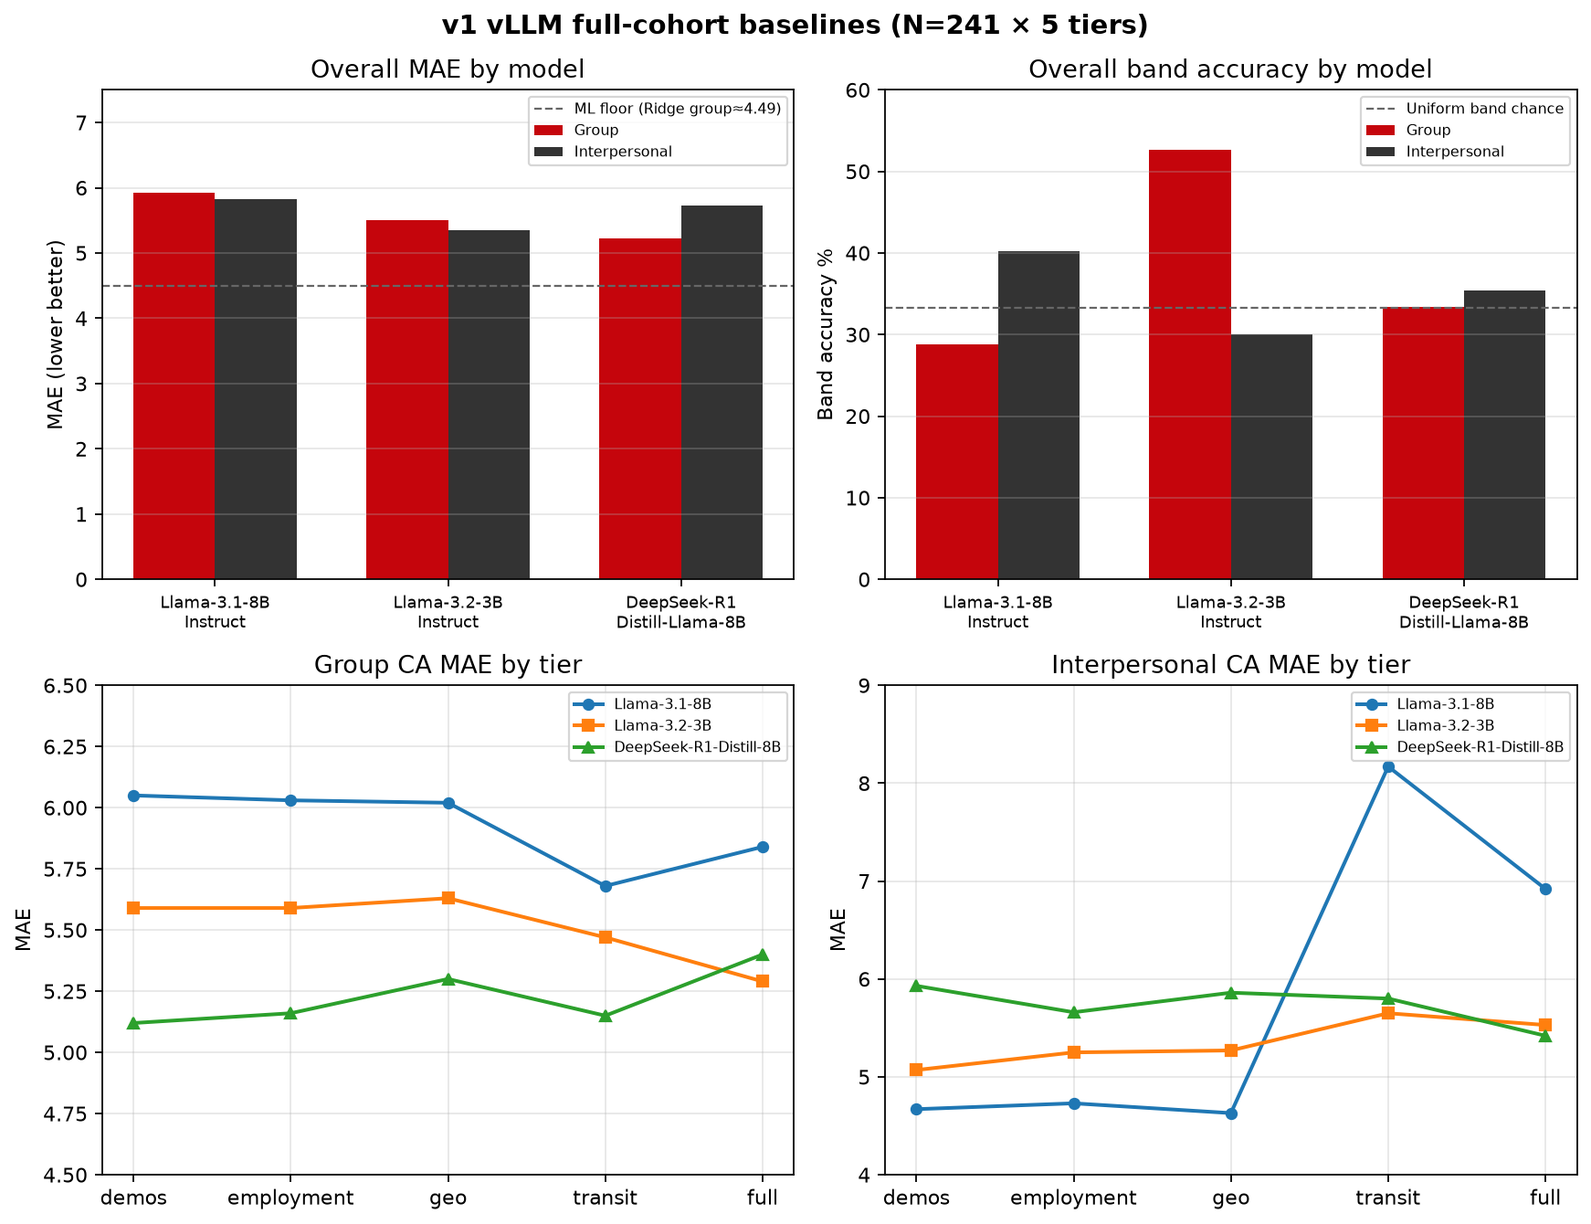
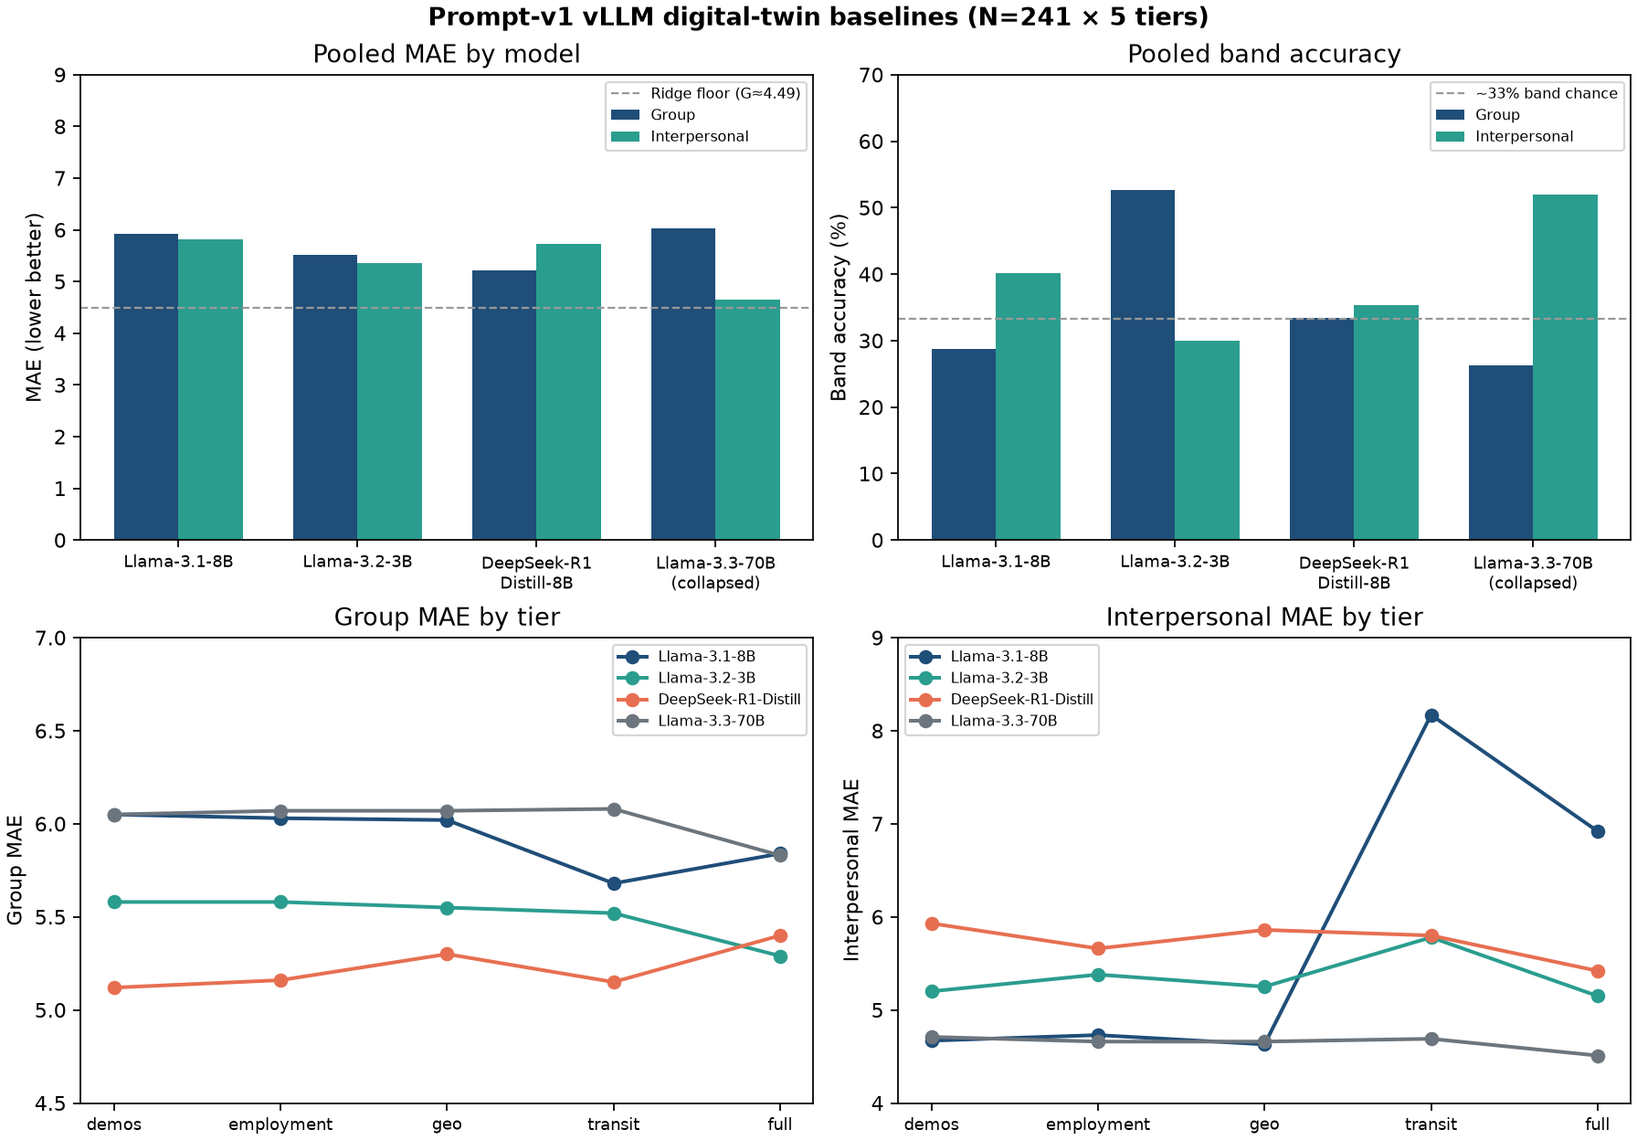
Update project files to include Llama-3.3-70B model documentation
- Added new documents for Llama-3.3-70B Instruct in `_quarto.yml`, `memos/README.md`, and `docs/llm_vllm_memo_agenda.md`.
- Updated `research_memo_agenda.md` to reflect the inclusion of Llama-3.3-70B and its performance summary.
- Revised cross-model comparison documentation to incorporate findings related to the new model.

diff --git a/memos/vllm_v1_cross_model_comparison.md b/memos/vllm_v1_cross_model_comparison.md
@@ -7,57 +7,59 @@ date: 2026-07-26
 
 **Research question:** Across full-cohort vLLM runs on the **same prompt-v1** five-tier ladder (`demos` → `employment` → `geo` → `transit` → `full`), which open-weight instruct / distill models best recover ground-truth PRCA group and interpersonal scores — and do employment, transit, or cumulative context reduce absolute error (RQ1–RQ3)?
 
-**Formal method pages:** [`docs/llm_baseline_llama31_v1.md`](../docs/llm_baseline_llama31_v1.md) · [`docs/llm_baseline_llama32_instruct_v1.md`](../docs/llm_baseline_llama32_instruct_v1.md) · [`docs/llm_baseline_deepseek_r1_distill_v1.md`](../docs/llm_baseline_deepseek_r1_distill_v1.md) · [`docs/persona_prompt_versions.md`](../docs/persona_prompt_versions.md)
+**Formal method pages:** [`docs/llm_baseline_llama31_v1.md`](../docs/llm_baseline_llama31_v1.md) · [`docs/llm_baseline_llama32_instruct_v1.md`](../docs/llm_baseline_llama32_instruct_v1.md) · [`docs/llm_baseline_deepseek_r1_distill_v1.md`](../docs/llm_baseline_deepseek_r1_distill_v1.md) · [`docs/llm_baseline_llama33_70b_v1.md`](../docs/llm_baseline_llama33_70b_v1.md) · [`docs/persona_prompt_versions.md`](../docs/persona_prompt_versions.md)
 
-**Sibling memos (per model):** [`vllm_v1_llama31_8b.md`](vllm_v1_llama31_8b.md) · [`vllm_v1_llama32_3b.md`](vllm_v1_llama32_3b.md) · [`vllm_v1_deepseek_r1_distill.md`](vllm_v1_deepseek_r1_distill.md)
+**Sibling memos (per model):** [`vllm_v1_llama31_8b.md`](vllm_v1_llama31_8b.md) · [`vllm_v1_llama32_3b.md`](vllm_v1_llama32_3b.md) · [`vllm_v1_deepseek_r1_distill.md`](vllm_v1_deepseek_r1_distill.md) · [`vllm_v1_llama33_70b.md`](vllm_v1_llama33_70b.md)
 
 ---
 
 ## Answer, Response, + Summary of Results
 
-Using the Prolific↔Qualtrics matched analytic cohort (**n = 241**; inner join; complete scorable PRCA), we evaluated three GPU vLLM exports on **identical prompt-v1** Terrarium narratives (241 × 5 tiers = **1,205** prompts each):
+Using the Prolific↔Qualtrics matched analytic cohort (**n = 241**; inner join; complete scorable PRCA), we evaluated four GPU vLLM exports on **identical prompt-v1** Terrarium narratives (241 × 5 tiers = **1,205** prompts each):
 
-| Model | Tag / export | Parse | Hardware notes |
+| Model | Tag / export | Parse | Hardware / notes |
 |---|---|---:|---|
 | `meta-llama/Llama-3.1-8B-Instruct` | `20260726_0221` | 100% | fp8 Marlin WO · A5000 · 12.3 samp/s |
 | `meta-llama/Llama-3.2-3B-Instruct` | `20260726_0252` | 100% | ~21.0 samp/s |
 | `deepseek-ai/DeepSeek-R1-Distill-Llama-8B` | `20260726_0324` | **99.8%** (1202/1205) | fp8 Marlin WO · 1.34 samp/s · `</think>` strip |
+| `meta-llama/Llama-3.3-70B-Instruct` | `llama_70b.csv` | 100% | **Mode collapse** — only **8** unique generations |
 
 Metrics follow the project evaluator (`ca_personas.evaluate`): MAE / exact match / band accuracy on group & interpersonal PRCA (6–30; bands low≤13 / moderate 14–19 / high≥20). Classical ML floor for comparison: best transit **group MAE ≈ 4.49** (Ridge; [`docs/ml_baselines.md`](../docs/ml_baselines.md)).
 
-**Short answer:** None of the three models is a high-fidelity digital twin (exact match single-digit). On pooled MAE, **DeepSeek-R1-Distill-Llama-8B** wins group CA (**5.22**), **Llama-3.2-3B-Instruct** wins interpersonal MAE (**5.35**) and group band accuracy (**52.7%**), and **Llama-3.1-8B-Instruct** uniquely recovers interpersonal bands above chance at demos/geo (~52%) but **collapses when transit is added** (IP MAE 4.67 → **8.17**). Employment (RQ1) is negligible for all three; transit/full (RQ2–RQ3) help or hurt depending on model × subscale.
+**Short answer:** None of the models is a high-fidelity digital twin (exact match single-digit). Among **non-collapsed** runs, **DeepSeek-R1-Distill-Llama-8B** wins group CA (**5.22**), **Llama-3.2-3B-Instruct** wins interpersonal MAE (**5.35**) and group band accuracy (**52.7%**), and **Llama-3.1-8B-Instruct** uniquely recovers interpersonal bands above chance at demos/geo (~52%) but **collapses when transit is added** (IP MAE 4.67 → **8.17**). **Llama-3.3-70B** is a separate failure mode: ≈93% constant prior `(18, 12)` — do not rank it as a competitive twin despite a low IP MAE (**4.65**) that is an artifact of that prior. Employment (RQ1) is negligible for all; transit/full (RQ2–RQ3) help or hurt depending on model × subscale.
 
 ![Cross-model MAE, band accuracy, and tier trajectories](figures/vllm_v1_cross_model_memo.png)
 
 ### Head-to-head (all tiers pooled)
 
-| Model | MAE group ↓ | MAE IP ↓ | Exact G | Exact IP | Band G | Band IP |
-|---|---:|---:|---:|---:|---:|---:|
-| Llama-3.1-8B-Instruct | 5.92 | 5.82 | 6.1% | 9.0% | 28.8% | **40.2%** |
-| Llama-3.2-3B-Instruct | 5.51 | **5.35** | **9.1%** | 7.7% | **52.7%** | 30.0% |
-| DeepSeek-R1-Distill-Llama-8B | **5.22** | 5.73 | 6.2% | 5.9% | 33.4% | 35.4% |
+| Model | MAE group ↓ | MAE IP ↓ | Exact G | Exact IP | Band G | Band IP | Notes |
+|---|---:|---:|---:|---:|---:|---:|---|
+| Llama-3.1-8B-Instruct | 5.92 | 5.82 | 6.1% | 9.0% | 28.8% | **40.2%** | Transit IP disaster |
+| Llama-3.2-3B-Instruct | 5.51 | **5.35** | **9.1%** | 7.7% | **52.7%** | 30.0% | Best group bands |
+| DeepSeek-R1-Distill-Llama-8B | **5.22** | 5.73 | 6.2% | 5.9% | 33.4% | 35.4% | Best group MAE; tier-stable |
+| Llama-3.3-70B-Instruct | 6.02 | 4.65† | 6.4% | 12.4% | 26.3% | 52.0%† | †Constant prior; not person-tracking |
 
-All remain **above** the tabular Ridge floor (group MAE 4.49). Band accuracy vs ~33% chance: Llama-3.2 dominates **group** bands; Llama-3.1 leads **interpersonal** bands (driven by demos/employment/geo, not transit).
+Non-collapsed models remain **above** the tabular Ridge floor (group MAE 4.49). Band accuracy vs ~33% chance: Llama-3.2 dominates **group** bands; Llama-3.1 leads **interpersonal** bands among models that still vary outputs (driven by demos/employment/geo, not transit).
 
 ### RQ1–RQ3 pattern by model
 
-| RQ | Llama-3.1-8B | Llama-3.2-3B | DeepSeek-R1-Distill-8B |
-|---|---|---|---|
-| **RQ1 employment** | Negligible (Δ MAE G −0.02; IP +0.07) | Negligible (G 0.00; IP +0.18) | Negligible / slight IP help (G +0.03; IP −0.27) |
-| **RQ2 transit** | Group slight help; **IP disaster** (+3.51 MAE; band 51.9%→15.4%) | Small group help; IP worse (+0.58 MAE) | Flat group; IP nearly flat (−0.13 MAE); IP band +2.6 pp |
-| **RQ3 full** | Group band up; IP still worse than demos | Best group MAE (5.29); IP mixed | Best IP MAE in set at full (**5.42**); group MAE not best |
+| RQ | Llama-3.1-8B | Llama-3.2-3B | DeepSeek-R1-Distill-8B | Llama-3.3-70B |
+|---|---|---|---|---|
+| **RQ1 employment** | Negligible | Negligible | Negligible / slight IP help | Null (collapsed) |
+| **RQ2 transit** | Group slight help; **IP disaster** | Small group help; IP worse | Flat; no IP collapse | Null (flat collapse) |
+| **RQ3 full** | Group band up; IP worse than demos | Best group MAE (5.29); IP mixed | Best IP MAE at full (**5.42**) | Negligible dips only |
 
-**Interpretation.** Prompt-v1 transit text is a **model-dependent hazard**, not a universal aid. Llama-3.1 over-predicts interpersonal CA once mobility cues appear (signed IP error ≈ +6.5 at transit). Llama-3.2 and DeepSeek are more robust; DeepSeek is the most **tier-stable**, while Llama-3.2 is the best **coarse group-band** classifier among the three.
+**Interpretation.** Prompt-v1 transit text is a **model-dependent hazard**, not a universal aid. Llama-3.1 over-predicts interpersonal CA once mobility cues appear. Llama-3.2 and DeepSeek are more robust; DeepSeek is the most **tier-stable**, while Llama-3.2 is the best **coarse group-band** classifier among the three. Llama-3.3-70B shows that **scale alone does not fix** digital-twin recovery — without predictive variance, tier RQs are uninterpretable.
 
-**Conclusion.** For prompt-v1 digital-twin evaluation on this cohort: prefer **DeepSeek-R1-Distill-Llama-8B** when minimizing group MAE, **Llama-3.2-3B-Instruct** when maximizing group band recovery / IP MAE, and treat **Llama-3.1-8B-Instruct** as the cautionary baseline that motivated prompt packaging v2/v3 (transit-induced interpersonal failure). No model yet closes the gap to classical ML (~4.5 MAE). Re-runs on v2/v3 prompts remain necessary before claiming packaging fixes stereotyping.
+**Conclusion.** For prompt-v1 digital-twin evaluation on this cohort: prefer **DeepSeek-R1-Distill-Llama-8B** when minimizing group MAE, **Llama-3.2-3B-Instruct** when maximizing group band recovery / IP MAE, treat **Llama-3.1-8B-Instruct** as the cautionary transit-IP baseline that motivated packaging v2/v3, and treat **Llama-3.3-70B** as a **mode-collapse** cautionary case (not a scale win). No model yet closes the gap to classical ML (~4.5 MAE). Re-runs on v2/v3 prompts (and non-collapsed 70B decoding) remain necessary before claiming packaging or scale fixes stereotyping.
 
-*Sources:* `data/vllm/llama3_1.md` · `data/vllm/llama32_instruct.md` · `data/vllm/deepseek-distilled/deepseek_v1.md` · docs LLM baselines · [github.com/Exios66/psych755-jjb](https://github.com/Exios66/psych755-jjb)
+*Sources:* `data/vllm/llama3_1.md` · `data/vllm/llama32_instruct.md` · `data/vllm/deepseek-distilled/deepseek_v1.md` · `data/vllm/llama-3-70b/llama_70b.md` · docs LLM baselines · [github.com/Exios66/psych755-jjb](https://github.com/Exios66/psych755-jjb)
 
 ---
 
 ## What questions or uncertainties remain?
 
-Do v2 (signal-first) and v3 (rideshare / public-transit / voice ablations) remove Llama-3.1’s transit IP collapse without harming DeepSeek / 3B gains? Are signed-error / stereotyping slices (Sex, Age, Student, Employment) aligned across models? Would temperature / decoding changes alter band recovery more than architecture?
+Do v2 (signal-first) and v3 (rideshare / public-transit / voice ablations) remove Llama-3.1’s transit IP collapse without harming DeepSeek / 3B gains? Can temperature / constrained decoding restore 70B variance? Are signed-error / stereotyping slices (Sex, Age, Student, Employment) aligned across non-collapsed models?
 
 ## What other analyses pair with this memo?
 

diff --git a/docs/llm_baseline_llama33_70b_v1.md b/docs/llm_baseline_llama33_70b_v1.md
@@ -1,0 +1,108 @@
+---
+title: "Llama-3.3-70B-Instruct full-cohort baseline (prompt v1)"
+subtitle: "vLLM digital-twin results — mode-collapse cautionary case"
+---
+
+**Model:** `meta-llama/Llama-3.3-70B-Instruct` · **Prompt generation:** version 1 core ladder  
+**Companion:** [Cross-model memo](../memos/vllm_v1_cross_model_comparison.md) · [70B research memo](../memos/vllm_v1_llama33_70b.md) · [Llama-3.1](llm_baseline_llama31_v1.md) · [Llama-3.2-3B](llm_baseline_llama32_instruct_v1.md) · [DeepSeek](llm_baseline_deepseek_r1_distill_v1.md) · [Prompt versions](persona_prompt_versions.md)
+
+> **Read first:** This run is a **mode-collapse** failure, not a scale win. ≈93% of generations are the constant pair `(group=18, interpersonal=12)`. Treat MAE / band tables as diagnostics of that prior, not as evidence that 70B recovers PRCA.
+
+---
+
+**Model tag:** `llama33_70b_instruct`  
+**Sample:** N = 241 × 5 tiers = **1205** prompts  
+**Parse success:** **1205/1205 (100%)**  
+**Unique generated JSON texts:** **8**  
+**Result CSV:** `data/vllm/llama-3-70b/llama_70b.csv`
+
+---
+
+## 1. Overall metrics (pooled)
+
+| Metric | Value |
+|---|---:|
+| MAE group | **6.02** |
+| MAE interpersonal | **4.65** |
+| Exact acc group | 6.4% |
+| Exact acc interpersonal | 12.4% |
+| Band acc group | 26.3% |
+| Band acc interpersonal | 52.0% |
+| Mean signed error group | **+3.51** |
+| Mean signed error IP | **−2.10** |
+
+## 2. Mode collapse
+
+| pred_group | n | share |
+|---:|---:|---:|
+| 18 | 1118 | 92.8% |
+| 22 | 51 | 4.2% |
+| 16 | 25 | 2.1% |
+| other | 11 | 0.9% |
+
+| pred_IP | n | share |
+|---:|---:|---:|
+| 12 | 1123 | 93.2% |
+| 18 | 51 | 4.2% |
+| 10 | 27 | 2.2% |
+| other | 4 | 0.3% |
+
+## 3. Comparison vs smaller prompt-v1 models
+
+| Metric (all tiers) | Llama-3.3-70B | DeepSeek-R1-Distill-8B | Llama-3.2-3B | Llama-3.1-8B |
+|---|---:|---:|---:|---:|
+| MAE group | 6.02 | **5.22** | 5.51 | 5.92 |
+| MAE interpersonal | **4.65** | 5.73 | 5.35 | 5.82 |
+| Band group | 26.3% | 33.4% | **52.7%** | 28.8% |
+| Band interpersonal | **52.0%** | 35.4% | 30.0% | 40.2% |
+
+IP MAE / band look competitive only because the constant **low-IP** prior aligns with cohort base rates. Group recovery is the **worst** of the four models.
+
+## 4. RQ deltas (vs demos)
+
+- **RQ1 employment:** group MAE 6.05 → 6.07; IP 4.71 → 4.66  
+- **RQ2 transit:** group 6.05 → 6.08; IP 4.71 → 4.69 (flat; no 8B-style IP collapse)  
+- **RQ3 full:** group MAE **5.83**; IP **4.51** — tiny movement, still collapsed
+
+## 5. Metrics by tier
+
+| tier | n_GT | mae_group | mae_IP | band_group | band_IP | mean_err_group | mean_err_IP |
+|---|---:|---:|---:|---:|---:|---:|---:|
+| all | 1205 | 6.02 | 4.65 | 26.3% | 52.0% | +3.51 | −2.10 |
+| demos | 241 | 6.05 | 4.71 | 26.6% | 51.0% | +3.58 | −2.01 |
+| employment | 241 | 6.07 | 4.66 | 25.7% | 51.9% | +3.53 | −2.09 |
+| geo | 241 | 6.07 | 4.66 | 26.1% | 51.9% | +3.53 | −2.09 |
+| transit | 241 | 6.08 | 4.69 | 26.1% | 51.9% | +3.58 | −2.01 |
+| full | 241 | 5.83 | 4.51 | 27.0% | 53.5% | +3.32 | −2.28 |
+
+## 6. Band confusion (pooled)
+
+### Group
+
+| gt_band | high | low | moderate |
+|:--------|----:|----:|---------:|
+| high | 23 | 0 | 227 |
+| low | 24 | 1 | 625 |
+| moderate | 11 | 1 | 293 |
+
+### Interpersonal
+
+| gt_band | high | low | moderate |
+|:--------|----:|----:|---------:|
+| high | 2 | 204 | 14 |
+| low | 0 | 614 | 26 |
+| moderate | 0 | 334 | 11 |
+
+## 7. Success checklist
+
+| Criterion | Result |
+|---|---|
+| Schema-valid CA JSON | Yes (100%) |
+| Exact digital-twin recovery | No |
+| Coarse band recovery | Spurious IP; group below chance |
+| Person-specific variance | **No** (8 unique outputs) |
+| RQ1–RQ3 tier gains | Null under collapse |
+
+---
+
+*Source report: `data/vllm/llama-3-70b/llama_70b.md` · evaluator artifacts in the same directory.*

diff --git a/memos/vllm_v1_llama33_70b.md b/memos/vllm_v1_llama33_70b.md
@@ -1,0 +1,58 @@
+---
+title: "Memo: Does Llama-3.3-70B recover PRCA on prompt v1?"
+subtitle: "Research memorandum — full-cohort vLLM baseline (mode-collapse case)"
+author: Jack J. Burleson
+date: 2026-07-26
+---
+
+**Research question:** Does `meta-llama/Llama-3.3-70B-Instruct`, when personified via prompt-v1 cumulative Terrarium narratives, recover participants’ group and interpersonal PRCA scores — and do employment (RQ1), transit (RQ2), or full cumulative context (RQ3) reduce absolute error?
+
+**Formal write-up:** [`docs/llm_baseline_llama33_70b_v1.md`](../docs/llm_baseline_llama33_70b_v1.md)  
+**Cross-model memo:** [`vllm_v1_cross_model_comparison.md`](vllm_v1_cross_model_comparison.md)
+
+---
+
+## Answer, Response, + Summary of Results
+
+Full-cohort vLLM export on the matched Prolific↔Qualtrics sample (**n = 241**; **1,205** prompts; parse **100%**). Result file: `data/vllm/llama-3-70b/llama_70b.csv`.
+
+**Short answer:** Engineering success (valid CA JSON) but a **failed digital twin via mode collapse**. Across 1,205 prompts there are only **8** unique `generated_text` strings; **≈93%** of rows emit the constant prior **group = 18 / interpersonal = 12** (moderate / low bands). Pooled MAE is **6.02** (group) / **4.65** (IP). Group bands (**26.3%**) are below chance; IP bands (**52.0%**) look strong only because the constant low-IP prior matches cohort base rates — not because the model tracks individuals. Tier ladders are flat: RQ1–RQ3 are null.
+
+### Collapse diagnostics
+
+| Signal | Value |
+|---|---:|
+| Unique generated texts | **8** |
+| Share pred_group = 18 | **92.8%** |
+| Share pred_IP = 12 | **93.2%** |
+| Mean signed error (G / IP) | **+3.51** / **−2.10** |
+
+### Metrics by tier
+
+| Tier | MAE G | MAE IP | Band G | Band IP | Mean err G | Mean err IP |
+|---|---:|---:|---:|---:|---:|---:|
+| demos | 6.05 | 4.71 | 26.6% | 51.0% | +3.58 | −2.01 |
+| employment | 6.07 | 4.66 | 25.7% | 51.9% | +3.53 | −2.09 |
+| geo | 6.07 | 4.66 | 26.1% | 51.9% | +3.53 | −2.09 |
+| transit | 6.08 | 4.69 | 26.1% | 51.9% | +3.58 | −2.01 |
+| full | **5.83** | **4.51** | 27.0% | **53.5%** | +3.32 | −2.28 |
+
+### RQ verdicts
+
+- **RQ1 (employment):** No — Δ MAE ≈ 0.
+- **RQ2 (transit):** No — flat (unlike Llama-3.1’s IP collapse; here *nothing* changes).
+- **RQ3 (full):** Negligible MAE dips still inside collapse.
+
+**Conclusion.** Scaling to Llama-3.3-70B on prompt v1 does **not** improve digital-twin recovery on this cohort. The model behaves as a **near-constant stereotype prior**, not a person-conditioned estimator. Prefer smaller models that still vary predictions (DeepSeek group MAE **5.22**; Llama-3.2 group bands **52.7%**) for v1 comparisons, and treat 70B as a cautionary case for decoding / prompting / constrained-output follow-ups before claiming scale helps.
+
+*Sources:* `data/vllm/llama-3-70b/llama_70b.md` · `docs/llm_baseline_llama33_70b_v1.md` · evaluator `ca_personas.evaluate` · [github.com/Exios66/psych755-jjb](https://github.com/Exios66/psych755-jjb)
+
+---
+
+## What questions or uncertainties remain?
+
+Was temperature / sampling configured too greedily (or with too-strong JSON schema forcing)? Does constrained decoding or higher temperature restore score variance without tanking parse rate? Does the same collapse appear under prompt packaging v2/v3?
+
+## What other analyses pair with this memo?
+
+Cross-model ranking: [`vllm_v1_cross_model_comparison.md`](vllm_v1_cross_model_comparison.md). Non-collapsed siblings: [`vllm_v1_llama31_8b.md`](vllm_v1_llama31_8b.md), [`vllm_v1_llama32_3b.md`](vllm_v1_llama32_3b.md), [`vllm_v1_deepseek_r1_distill.md`](vllm_v1_deepseek_r1_distill.md).

diff --git a/docs/llm_vllm_memo_agenda.md b/docs/llm_vllm_memo_agenda.md
@@ -17,10 +17,11 @@ Document the first wave of **live GPU vLLM** evaluations on the matched analytic
 
 | Memo | Model | Headline |
 |---|---|---|
-| [`memos/vllm_v1_cross_model_comparison.md`](../memos/vllm_v1_cross_model_comparison.md) | All three | DeepSeek best group MAE (5.22); 3B best group bands (52.7%); 8B IP collapses at transit |
+| [`memos/vllm_v1_cross_model_comparison.md`](../memos/vllm_v1_cross_model_comparison.md) | All four | DeepSeek best group MAE (5.22); 3B best group bands (52.7%); 8B IP collapses at transit; 70B mode-collapse |
 | [`memos/vllm_v1_llama31_8b.md`](../memos/vllm_v1_llama31_8b.md) | Llama-3.1-8B-Instruct | IP MAE 4.67 → 8.17 at transit; packaging v2/v3 motivation |
 | [`memos/vllm_v1_llama32_3b.md`](../memos/vllm_v1_llama32_3b.md) | Llama-3.2-3B-Instruct | Lower MAE than 8B; robust-ish transit; IP bands ~chance |
 | [`memos/vllm_v1_deepseek_r1_distill.md`](../memos/vllm_v1_deepseek_r1_distill.md) | DeepSeek-R1-Distill-Llama-8B | Best group MAE; tier-stable; 99.8% parse |
+| [`memos/vllm_v1_llama33_70b.md`](../memos/vllm_v1_llama33_70b.md) | Llama-3.3-70B-Instruct | Mode collapse (~93% constant 18/12); not a scale win |
 
 ## Method pages (tables)
 

diff --git a/docs/research_memo_agenda.md b/docs/research_memo_agenda.md
@@ -50,10 +50,11 @@ Live GPU baselines are documented separately in [`docs/llm_vllm_memo_agenda.md`]
 
 | Memo | Headline |
 |---|---|
-| [`memos/vllm_v1_cross_model_comparison.md`](../memos/vllm_v1_cross_model_comparison.md) | DeepSeek best group MAE; 3B best group bands; 8B IP collapses at transit |
+| [`memos/vllm_v1_cross_model_comparison.md`](../memos/vllm_v1_cross_model_comparison.md) | DeepSeek best group MAE; 3B best group bands; 8B IP collapses at transit; 70B collapsed |
 | [`memos/vllm_v1_llama31_8b.md`](../memos/vllm_v1_llama31_8b.md) | Llama-3.1-8B cautionary baseline |
 | [`memos/vllm_v1_llama32_3b.md`](../memos/vllm_v1_llama32_3b.md) | Llama-3.2-3B Instruct lower MAE than 8B |
 | [`memos/vllm_v1_deepseek_r1_distill.md`](../memos/vllm_v1_deepseek_r1_distill.md) | DeepSeek-R1-Distill tier-stable; best group MAE |
+| [`memos/vllm_v1_llama33_70b.md`](../memos/vllm_v1_llama33_70b.md) | Llama-3.3-70B mode-collapse cautionary case |
 
 ## Intentionally deferred (need further live LLM or new data)
 

diff --git a/memos/README.md b/memos/README.md
@@ -26,6 +26,7 @@ Individual research memoranda for PSYCH 755, following the course template
 | [`vllm_v1_llama31_8b.md`](vllm_v1_llama31_8b.md) | Jack J. Burleson | Does Llama-3.1-8B recover PRCA on prompt v1? |
 | [`vllm_v1_llama32_3b.md`](vllm_v1_llama32_3b.md) | Jack J. Burleson | Does Llama-3.2-3B-Instruct recover PRCA on prompt v1? |
 | [`vllm_v1_deepseek_r1_distill.md`](vllm_v1_deepseek_r1_distill.md) | Jack J. Burleson | Does DeepSeek-R1-Distill-Llama-8B recover PRCA on prompt v1? |
+| [`vllm_v1_llama33_70b.md`](vllm_v1_llama33_70b.md) | Jack J. Burleson | Does Llama-3.3-70B recover PRCA on prompt v1? (mode collapse) |
 
 Agenda / hub write-up: [`docs/research_memo_agenda.md`](../docs/research_memo_agenda.md) · [`docs/secondary_rq_followup_experiments.md`](../docs/secondary_rq_followup_experiments.md) · LLM wave: [`docs/llm_vllm_memo_agenda.md`](../docs/llm_vllm_memo_agenda.md)
 

diff --git a/docs/llm_baseline_deepseek_r1_distill_v1.md b/docs/llm_baseline_deepseek_r1_distill_v1.md
@@ -4,7 +4,7 @@ subtitle: "vLLM digital-twin results on the original 5-tier Terrarium prompts"
 ---
 
 **Model:** `deepseek-ai/DeepSeek-R1-Distill-Llama-8B` · **Prompt generation:** version 1 core ladder  
-**Companion:** [Cross-model memo](../memos/vllm_v1_cross_model_comparison.md) · [Llama-3.1](llm_baseline_llama31_v1.md) · [Llama-3.2-3B](llm_baseline_llama32_instruct_v1.md) · [Prompt versions](persona_prompt_versions.md)
+**Companion:** [Cross-model memo](../memos/vllm_v1_cross_model_comparison.md) · [Llama-3.1](llm_baseline_llama31_v1.md) · [Llama-3.2-3B](llm_baseline_llama32_instruct_v1.md) · [Llama-3.3-70B](llm_baseline_llama33_70b_v1.md) · [Prompt versions](persona_prompt_versions.md)
 
 > R1-distill generations may include `<think>…</think>` reasoning; the project ingest prefers post-`</think>` text and normalizes SentencePiece `Ġ`/`Ċ` before JSON parse.
 
